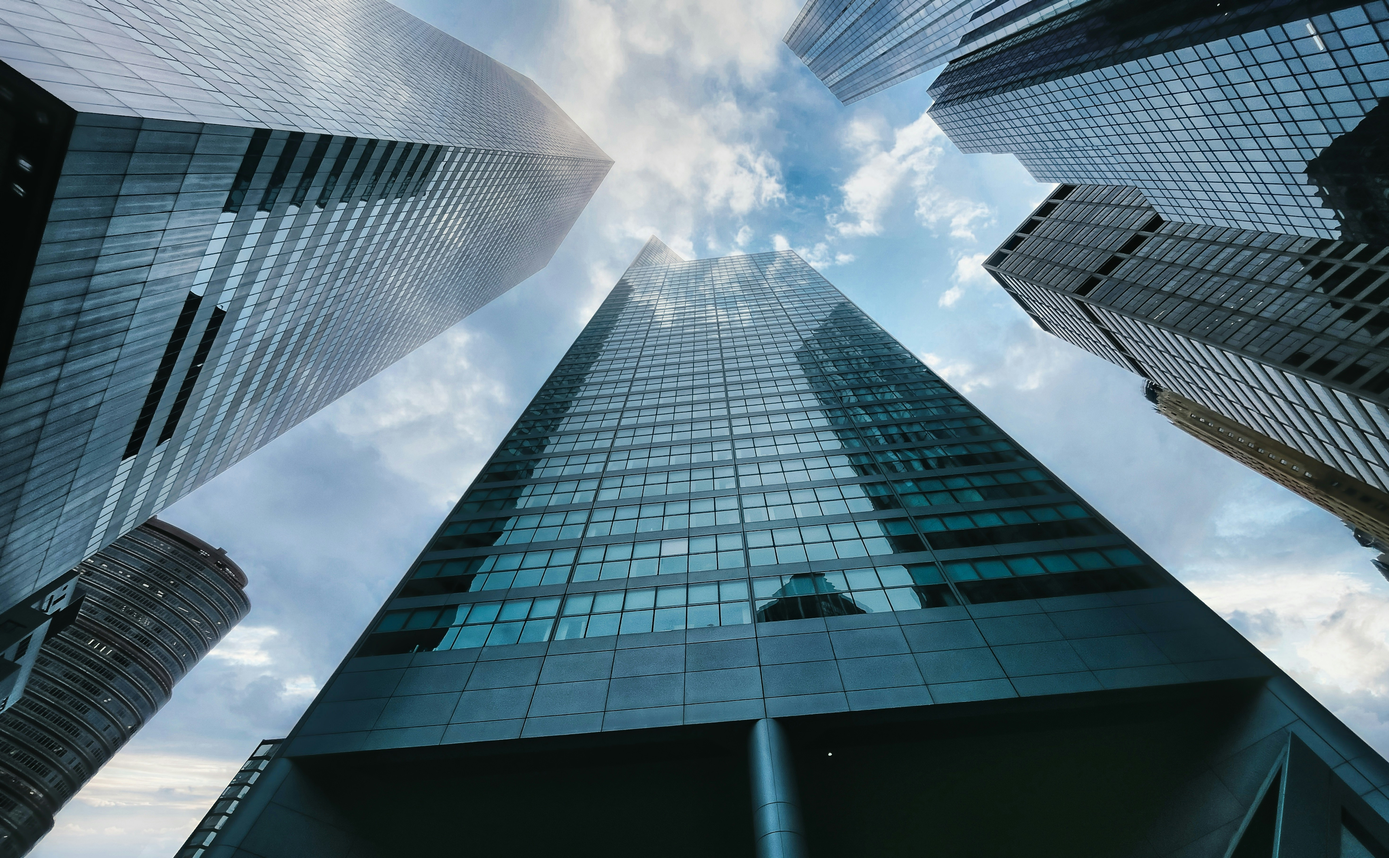
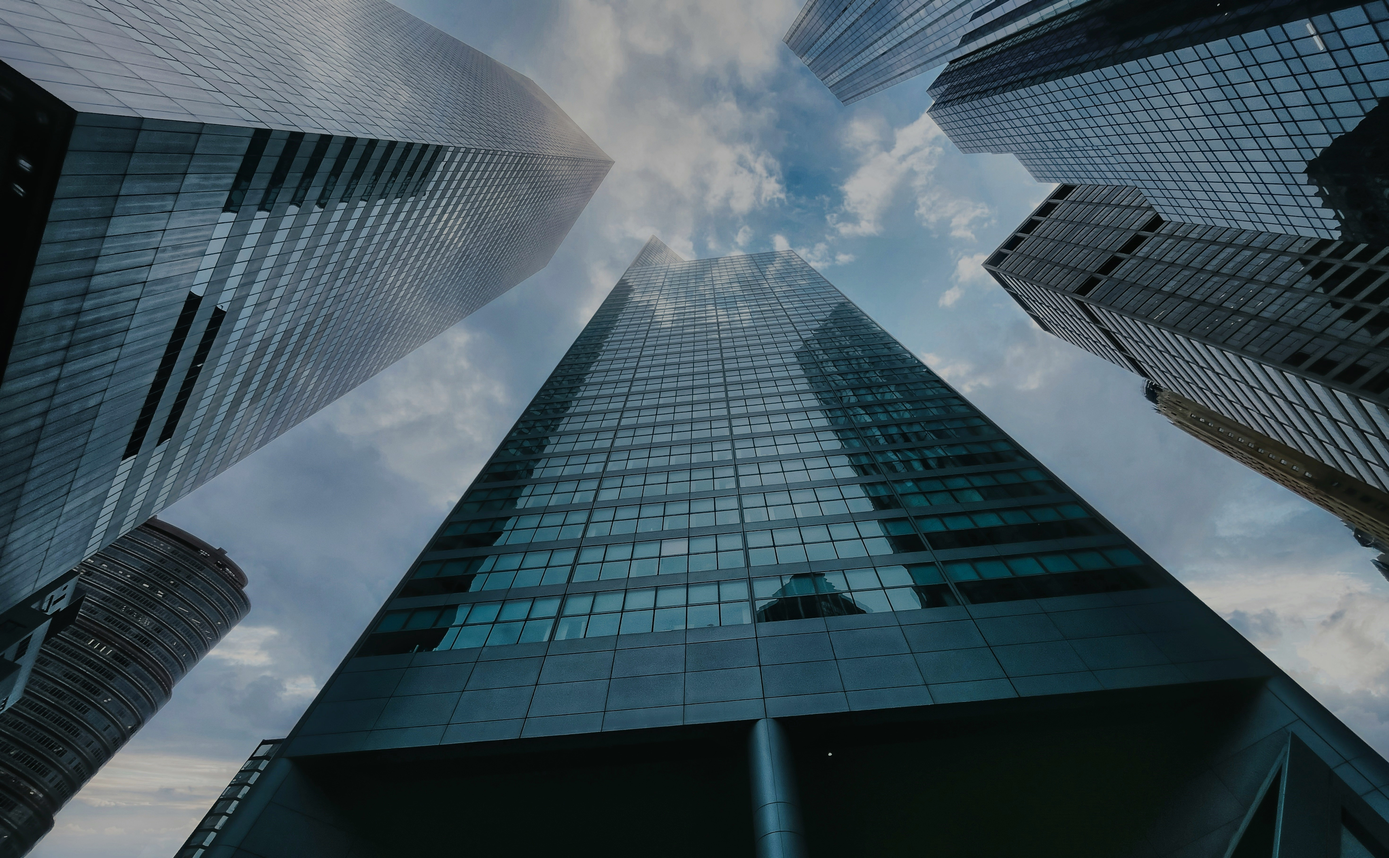
Login Styling

diff --git a/assets/css/style.css b/assets/css/style.css
@@ -78,7 +78,200 @@ h6 {
   padding: 30px  450px 10px;
   background-color: rgba(0, 0, 0, 0.5); /* Adjust opacity by changing the last value (0.5 here) */
 }
+/*--------------------------------------------------------------
+# Header_login
+--------------------------------------------------------------*/
+#header_login {
+	transition: all 0.5s;
+	z-index: -997;
+	transition: all 0.5s;
+	top: 10px;
+  }
+  
+  #header_login .header-container {
+	background: #fff;
+	border-radius: 30px;
+	font-size: 26px;
+	padding: 25px 20px 25px 20px;
+	line-height: 0.5;
+	font-weight: 500;
+	font-family: "Nunito", sans-serif;
+  }
+  
+  #header_login.header-scrolled {
+	background: #fff;
+	box-shadow: 0px 2px 15px rgba(0, 0, 0, 0.1);
+	top: 0;
+  }
+  
+  
+  
+  
+  @media (max-width: 992px) {
+	#header {
+	  box-shadow: 0px 2px 15px rgba(0, 0, 0, 0.1);
+	  top: 0;
+	  background: #012970;
+	  .no-mobile {
+		display: none;
+	  }
+	}
+  
+   .top-layer{
+		z-index: 1000;
+	  }
+   }
+  
+	#header_login .logo {
+	  padding-left: 0;
+	}
+  
+	#header_login .logo h1 {
+	  font-size: 24px;
+	}
+  
+  
+  .no-scroll {
+	overflow: hidden !important;
+  }
+  .back-layer{
+	z-index: 1;
+  }
+  .background-container {
+	position: relative;
+	background-size: cover; /* or use 'cover' depending on the desired effect */
+ 	background-repeat: no-repeat;
+  	background-position: center;
+  }
+  
+  .background-container::before {
+	content: '';
+	position: absolute;
+	top: 0;
+	left: 0;
+	right: 0;
+	bottom: 0;
+	
+	z-index: 1;
 
+
+  }/*--------------------------------------------------------------
+# Header_login
+--------------------------------------------------------------*/
+
+.register-button-location {
+  position: absolute;
+  top: 16px;
+  right: 12px;
+  z-index: 1;
+  font-family: "Open Sans", Helvetica, sans-serif;
+  text-transform: uppercase;
+  font-weight: 500;
+  font-size: 20px;
+  letter-spacing: 1px;
+  display: inline-block;
+  padding: 6px 18px;
+}
+
+.home-button-location {
+  position: absolute;
+  top: 8px;
+  left: 12px;
+  z-index: 1;
+  font-family: "Open Sans", Helvetica, sans-serif;
+  text-transform: uppercase;
+  font-weight: 500;
+  font-size: 20px;
+  letter-spacing: 1px;
+  display: inline-block;
+  padding: 6px 18px;
+}
+
+#header_login {
+	transition: all 0.5s;
+	z-index: -997;
+	transition: all 0.5s;
+	top: 10px;
+  }
+  
+  #header_login .header-container {
+	background: #fff;
+	border-radius: 30px;
+	font-size: 26px;
+	padding: 25px 20px 25px 20px;
+	line-height: 0.5;
+	font-weight: 500;
+	font-family: "Nunito", sans-serif;
+  }
+  
+  #header_login.header-scrolled {
+	background: #fff;
+	box-shadow: 0px 2px 15px rgba(0, 0, 0, 0.1);
+	top: 0;
+  }
+  
+  
+  
+  
+  @media (max-width: 992px) {
+	#header {
+	  box-shadow: 0px 2px 15px rgba(0, 0, 0, 0.1);
+	  top: 0;
+	  background: #012970;
+	  .no-mobile {
+		display: none;
+	  }
+	}
+  
+   .top-layer{
+		z-index: 1000;
+	  }
+   }
+  
+	#header_login .logo {
+	  padding-left: 0;
+	}
+  
+	#header_login .logo h1 {
+	  font-size: 24px;
+	}
+  
+  
+  .no-scroll {
+	overflow: hidden !important;
+  }
+  .back-layer{
+	z-index: 1;
+  padding: 40px 0px 0px 0px !important;
+  }
+  .background-container {
+	position: relative;
+	background-size: cover; /* or use 'cover' depending on the desired effect */
+ 	background-repeat: no-repeat;
+  	background-position: center;
+  }
+  
+  .background-container::before {
+	content: '';
+	position: absolute;
+	top: 0;
+	left: 0;
+	right: 0;
+	bottom: 0;
+	
+	z-index: 1;
+  }
+
+  .login-title {
+    font-size: 28px; /* Slightly larger to command attention */
+    font-weight: 700; /* Bold for prominence */
+    color: #000721; /* A deep blue color, solid rather than semi-transparent */
+    margin: 30px 0px 40px 0px; /* Consistent vertical spacing */
+    text-shadow: 1px 1px 2px #0005; /* Subtle text shadow for depth, with reduced opacity for sophistication */
+    letter-spacing: 0.5px; /* Adding some letter spacing for a touch of elegance */
+    font-family: 'Helvetica Neue', Helvetica, Arial, sans-serif; /* A clean, professional font-stack */
+  }
+  
 /*--------------------------------------------------------------
 # Cellphone stuff 
 --------------------------------------------------------------*/
@@ -423,7 +616,7 @@ h6 {
 
 .card-title {
   padding: 20px 0 15px 0;
-  font-size: 18px;
+  
   font-weight: 500;
   color: #012970;
   font-family: "Poppins", sans-serif;
